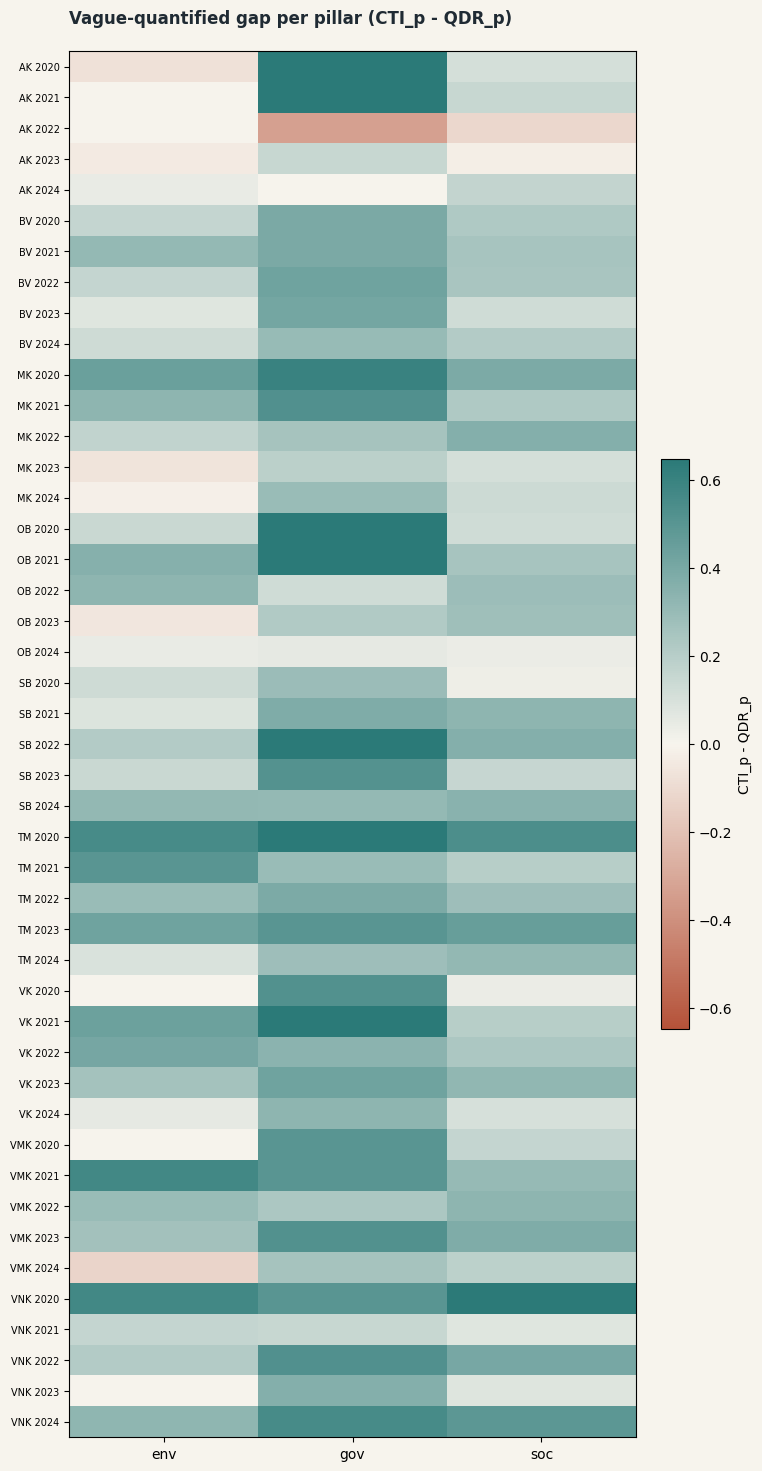
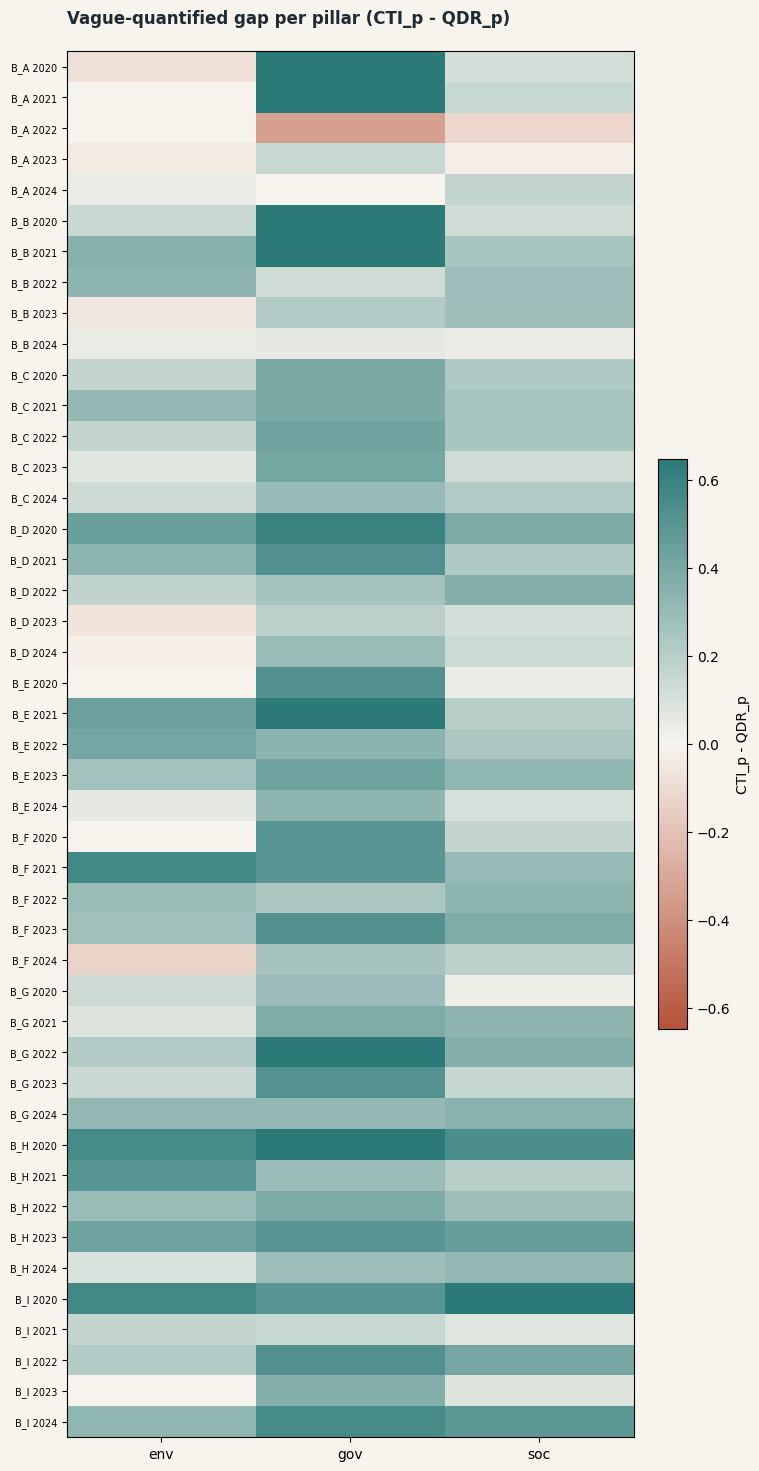
refactor(anon): bank codes -> B_A..B_I (CTI-ascending order)
Replace cryptic first+last-letter codes (AK/VMK/VNK...) with simple
sequential B_A..B_I so the by-bank table reads in order. Update anon.py
mapping, regenerate say-do figure, update paper table + RQ1 text.

diff --git a/src/esgwash/eda/anon.py b/src/esgwash/eda/anon.py
@@ -1,25 +1,24 @@
 """Mã hoá tên ngân hàng cho paper + figure (anonymisation).
 
-Mã = chữ cái đầu + chữ cái cuối của tên ngân hàng (3 ngân hàng "V..." phân biệt
-thành VMK/VNK/VK). Mapping CỐ ĐỊNH dùng chung mọi figure/bảng để nhất quán.
+Mã = B_A .. B_I, gán theo thứ tự CTI tăng dần (B_A = thấp nhất) để bảng/hình
+đọc xuôi. Mapping CỐ ĐỊNH dùng chung mọi figure/bảng để nhất quán.
 Decoder (mã -> tên thật) chỉ giữ nội bộ; paper xuất bản chỉ hiện mã.
 """
 from __future__ import annotations
 
 import pandas as pd
 
-# bank (lowercase key trong dữ liệu) -> mã ẩn danh (chữ đầu + chữ cuối của tên,
-# 3 ngân hàng "V..." phân biệt bằng VMK/VNK/VK).
+# bank (lowercase key trong dữ liệu) -> mã ẩn danh B_A..B_I (thứ tự CTI tăng dần).
 BANK_CODE = {
-    "agribank": "AK",
-    "bidv": "BV",
-    "mbbank": "MK",
-    "ocb": "OB",
-    "shb": "SB",
-    "techcombank": "TM",
-    "vietcombank": "VMK",
-    "viettinbank": "VNK",
-    "vpbank": "VK",
+    "agribank": "B_A",
+    "ocb": "B_B",
+    "bidv": "B_C",
+    "mbbank": "B_D",
+    "vpbank": "B_E",
+    "vietcombank": "B_F",
+    "shb": "B_G",
+    "techcombank": "B_H",
+    "viettinbank": "B_I",
 }
 
 
